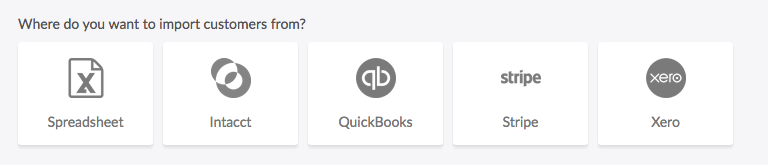
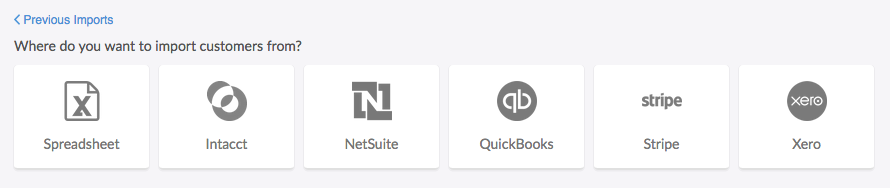
add netsuite doc

diff --git a/accounting/netsuite.md b/accounting/netsuite.md
@@ -1,0 +1,163 @@
+# NetSuite
+
+Invoiced integrates with NetSuite out of the box, a cloud-based ERP system. This document outlines how to setup and use the NetSuite integration.
+
+## Overview
+
+The NetSuite integration ships with the following capabilities:
+
+- Importing outstanding invoices from NetSuite
+- Importing customers from NetSuite
+- Writing invoices generated on Invoiced to NetSuite
+- Reconciling payments received on Invoiced to NetSuite
+- Syncing payments recorded on NetSuite to Invoiced
+
+[![NetSuite Data Flow](../img/netsuite-object-mapping.png)](../img/netsuite-object-mapping.png)
+
+## Setup
+
+In order to set up the NetSuite integration you first need these pieces of information:
+- NetSuite Account ID
+- OAuth Access Token
+
+Below we will show you how to connect NetSuite with Invoiced, step-by-step.
+
+### Setting Up an OAuth Access Token
+
+The next step is to create an OAuth Access Token for Invoiced on NetSuite.
+
+Coming Soon!
+
+### Connecting NetSuite on Invoiced
+
+1. Go to **Settings** > **Integrations** in the Invoiced dashboard.
+
+   [![Integration Settings](../img/integration-settings.png)](../img/integration-settings.png)
+
+2. Click on **Connect** on the NetSuite integration.
+
+   [![Connect NetSuite](../img/connect-netsuite.png)](../img/connect-netsuite.png)
+
+3. Enter in the NetSuite account ID, consumer secret, consumer key, token, and token secret for the Invoiced integration created earlier.
+
+4. Click **Save**. NetSuite is now connected! Next you will likely want to configure the integration before using it.
+
+   [![NetSuite Connected](../img/netsuite-connected.png)](../img/netsuite-connected.png)
+
+### Configuring the Accounting Sync
+
+Now you can configure the accounting sync in order to tell Invoiced how to map the data into your general ledger.
+
+1. Click on **Configure** on the NetSuite integration from the integrations page.
+
+   [![NetSuite Integration Settings](../img/netsuite-integration-settings.png)](../img/netsuite-integration-settings.png)
+
+2. Select the item account from your G/L on NetSuite. This is the default account where new line items are mapped.
+
+3. Select the undeposited funds account label from your G/L on NetSuite. This is where payments received through Invoiced will be mapped.
+
+4. Click **Save**.
+
+## Usage
+
+In this section you will learn how to use the NetSuite integration.
+
+### Enabling Auto-Sync
+
+Auto-sync will run accounting syncs automatically for you on an ongoing basis. Once auto-sync is enabled, accounting syncs will happen approximately once per hour. Here's how you can enable auto-sync:
+
+1. Go to **Settings** > **Accounting Sync**. Select **NetSuite** as your accounting system, if not already selected.
+
+   [![NetSuite Accounting Sync](../img/netsuite-accounting-sync-connected.png)](../img/netsuite-accounting-sync-connected.png)
+
+2. Click **Enable Auto-Sync** next to the NetSuite integration. You can periodically check back here to see activity in the *Recent Syncs* table.
+
+   [![NetSuite Accounting Sync](../img/netsuite-accounting-sync.png)](../img/netsuite-accounting-sync.png)
+
+### Running Syncs Manually
+
+If you want control over when your books are synced then you can manually trigger accounting syncs. You can run an accounting sync by following these steps:
+
+1. Go to **Settings** > **Accounting Sync**. Select **NetSuite** as your accounting system, if not already selected.
+
+   [![NetSuite Accounting Sync](../img/netsuite-accounting-sync-connected.png)](../img/netsuite-accounting-sync-connected.png)
+
+2. Click **Sync Now** underneath *NetSuite* any time you want to run an accounting sync. When the job is finished you will see it in the *Recent Syncs* table.
+
+   [![NetSuite Accounting Sync](../img/netsuite-accounting-sync.png)](../img/netsuite-accounting-sync.png)
+
+### Manual Invoice Imports
+
+You can import outstanding invoices from NetSuite using the invoice importer. With the NetSuite invoice importer you have the option to pull in invoices from the **Accounts Receivable** or **Order Entry** module, depending on where you create your invoices. If you are using the Order Entry module then it is recommended to import invoices from there as the invoices will have more detail, such as the line item quantity.
+
+Instructions:
+
+1. Go to the **Invoices** tab in the Invoiced dashboard. Click on the **Import** button in the top-right.
+
+   [![Invoices Page](../img/invoices-header.png)](../img/invoices-header.png)
+
+2. Select **NetSuite**.
+
+   [![Invoice Importer](../img/invoice-importer.png)](../img/invoice-importer.png)
+
+3. When ready to import, click **Start**.
+
+   [![Start NetSuite Invoice Import](../img/netsuite-invoice-importer-options.png)](../img/netsuite-invoice-importer-options.png)
+
+4. The importer will begin working. You are free to leave the page once the import starts. If you leave you will get an email afterwards with the result.
+
+   [![NetSuite Invoice Import Started](../img/netsuite-invoice-importer-pending.png)](../img/netsuite-invoice-importer-pending.png)
+
+5. Once the import is finished you will see the newly imported invoices on the **Invoices** page.
+
+   [![NetSuite Invoice Import Finished](../img/netsuite-invoice-importer-finished.png)](../img/netsuite-invoice-importer-finished.png)
+
+### Manual Customer Imports
+
+You can import customers from NetSuite into Invoiced as a one-time import. Why might you use this? The accounting sync will only import customers that have invoices, whereas a manual import will bring in your entire A/R customer list.
+
+Instructions:
+
+1. Go to the **Customers** tab in the Invoiced dashboard. Click on the **Import** button in the top-right.
+
+   [![Customers Page](../img/customers-header.png)](../img/customers-header.png)
+
+2. Select **NetSuite**.
+
+   [![Customer Importer](../img/customer-importer.png)](../img/customer-importer.png)
+
+3. Click **Start**.
+
+   [![Start NetSuite Customer Import](../img/netsuite-customer-importer.png)](../img/netsuite-customer-importer.png)
+
+4. The importer will begin working. You are free to leave the page once the import starts. If you leave you will get an email afterwards with the result.
+
+   [![NetSuite Customer Import Started](../img/netsuite-customer-importer-pending.png)](../img/netsuite-customer-importer-pending.png)
+
+5. Once the import is finished you will see the newly imported invoices on the **Customers** page.
+
+   [![NetSuite Customer Import Finished](../img/netsuite-customer-importer-finished.png)](../img/netsuite-customer-importer-finished.png)
+
+## Edge Cases
+
+Here we have documented all of the limitations, nuances, and edge cases to be aware of when using the NetSuite integration.
+
+- Customers on Invoiced are mapped to customers on NetSuite by the customer name.
+
+- Only non-draft invoices on Invoiced that have been updated since the last sync will be synced. On your first sync this means that all non-draft invoices will be synced.
+
+- Any changes to invoices imported from NetSuite that are later modified on Invoiced will not be synced to NetSuite. Payments processed through Invoiced for imported invoices will still be synced.
+
+## Troubleshooting
+
+When a sync fails you will be able to see the error message in the *Recent Syncs* section in **Settings** > **Accounting Sync**. Normally the error message will include the invoice # that failed and a detailed reason why it could not be synced. Oftentimes there is a manual action required on your end.
+
+Below we have documented commonly encountered errors and recommended resolutions. If you are still unable to get your books synced then please contact [support@invoiced.com](mailto:support@invoiced.com) for further assistance.
+
+### Finding Your NetSuite Account ID
+
+Your NetSuite account ID is required in order to connect the integration. You can obtain your account ID from NetSuite with these steps:
+
+1. Within the NetSuite application, hover over the **Setup** tab and click **Company** > **Company Information**.
+
+2. You should see an *Account ID* field. This is the account ID that you will use in the connection steps.

diff --git a/accounting/intacct.md b/accounting/intacct.md
@@ -195,7 +195,7 @@ Your Intacct company ID is required in order to connect the integration. You can
 
 1. Within the Intacct application, hover over the **Company** tab and click **Company Info**.
 
-2. You should see an *ID* field. This is the company ID that you will use in the connection steps below.
+2. You should see an *ID* field. This is the company ID that you will use in the connection steps.
 
 ### 401 Error
 

diff --git a/accounting/intro.md b/accounting/intro.md
@@ -4,6 +4,7 @@ Learn how to integrate Invoiced with your accounting system using our accounting
 
 We support the following accounting systems out of the box:
 
+- [NetSuite](/docs/accounting/netsuite)
 - [QuickBooks Desktop](/docs/accounting/quickbooks-desktop)
 - [QuickBooks Online](/docs/accounting/quickbooks-online)
 - [Sage Intacct](/docs/accounting/intacct)
